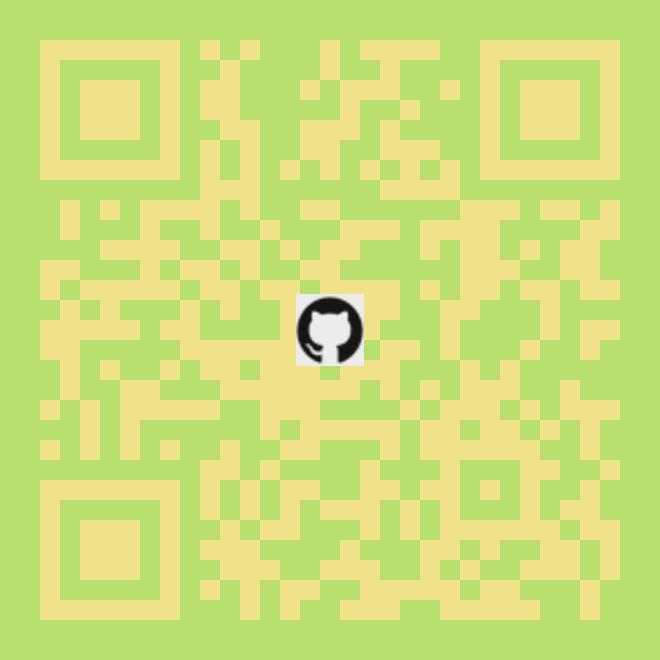
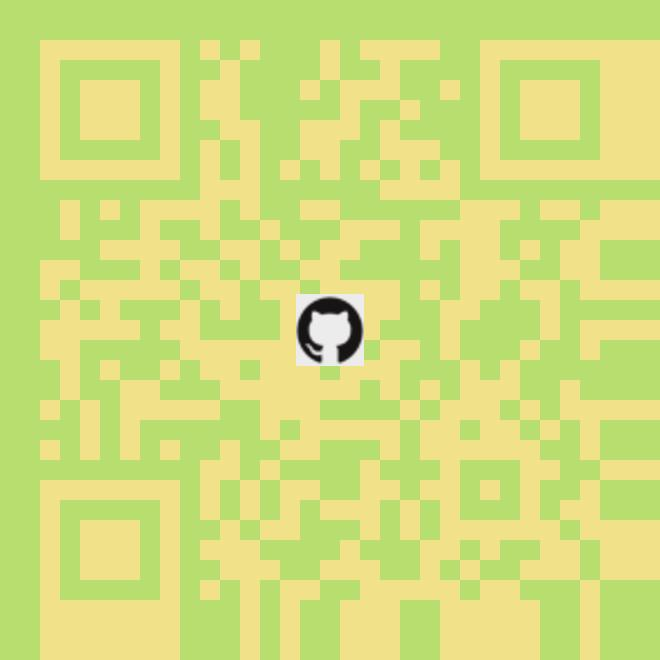
feat: use gg rather than repeated; support circle shape

diff --git a/image.go b/image.go
@@ -9,6 +9,8 @@ import (
 	"log"
 	"os"
 
+	"github.com/fogleman/gg"
+
 	"github.com/yeqown/go-qrcode/matrix"
 )
 
@@ -45,40 +47,106 @@ func drawAndSave(w io.Writer, m matrix.Matrix, opt *outputImageOptions) (err err
 	return
 }
 
+//
+//// draw deal QRCode's matrix to be a image.Image
+//func draw(mat matrix.Matrix, opt *outputImageOptions) image.Image {
+//	// w as image width, h as image height
+//	w := mat.Width()*opt.qrBlockWidth() + 2*_defaultPadding
+//	h := w
+//	rgba := image.NewRGBA(image.Rect(0, 0, w, h))
+//
+//	// top-bottom _defaultPadding
+//	for posX := 0; posX < w; posX++ {
+//		for posY := 0; posY < _defaultPadding; posY++ {
+//			rgba.Set(posX, posY, opt.backgroundColor())
+//		}
+//
+//		for posY := h - _defaultPadding; posY < h; posY++ {
+//			rgba.Set(posX, posY, opt.backgroundColor())
+//		}
+//	}
+//
+//	// left-right _defaultPadding
+//	for posY := _defaultPadding; posY < h-_defaultPadding; posY++ {
+//		for posX := 0; posX < _defaultPadding; posX++ {
+//			rgba.Set(posX, posY, opt.backgroundColor())
+//		}
+//
+//		for posX := w - _defaultPadding; posX < w; posX++ {
+//			rgba.Set(posX, posY, opt.backgroundColor())
+//		}
+//	}
+//
+//	ctx := &DrawContext{
+//		upperLeft:  image.Point{}, // useless
+//		lowerRight: image.Point{}, // useless
+//		img:        rgba,
+//		color:      color.Black, // useless
+//	}
+//	shape := opt.getShape()
+//
+//	// iterate the matrix to Draw each pixel
+//	mat.Iterate(matrix.ROW, func(x int, y int, v matrix.State) {
+//		// Draw the block
+//		ctx.upperLeft = image.Point{
+//			X: x*opt.qrBlockWidth() + _defaultPadding,
+//			Y: y*opt.qrBlockWidth() + _defaultPadding,
+//		}
+//		ctx.lowerRight = image.Point{
+//			X: (x+1)*opt.qrBlockWidth() + _defaultPadding,
+//			Y: (y+1)*opt.qrBlockWidth() + _defaultPadding,
+//		}
+//		ctx.color = opt.stateRGBA(v)
+//		// DONE(@yeqown): make this abstract to Shapes
+//		shape.Draw(ctx)
+//	})
+//
+//	// DONE(@yeqown): add logo image
+//	if opt.logoImage() != nil {
+//		// Draw logo image into rgba
+//		bound := opt.logo.Bounds()
+//		upperLeft, lowerRight := bound.Min, bound.Max
+//		logoWidth, logoHeight := lowerRight.X-upperLeft.X, lowerRight.Y-upperLeft.Y
+//
+//		if !validLogoImage(w, h, logoWidth, logoHeight) {
+//			log.Printf("w=%d, h=%d, logoW=%d, logoH=%d, logo is over than 1/5 of QRCode \n",
+//				w, h, logoWidth, logoHeight)
+//			goto done
+//		}
+//
+//		// DONE(@yeqown): calculate the xOffset and yOffset
+//		// which point(xOffset, yOffset) should icon upper-left to start
+//		xOffset, yOffset := (w-logoWidth)/2, (h-logoHeight)/2
+//
+//		for posX := upperLeft.X; posX < lowerRight.X; posX++ {
+//			for posY := upperLeft.Y; posY < lowerRight.Y; posY++ {
+//				rgba.Set(posX+xOffset, posY+yOffset, opt.logo.At(posX, posY))
+//			}
+//		}
+//	}
+//done:
+//	return rgba
+//}
+
 // draw deal QRCode's matrix to be a image.Image
 func draw(mat matrix.Matrix, opt *outputImageOptions) image.Image {
 	// w as image width, h as image height
 	w := mat.Width()*opt.qrBlockWidth() + 2*_defaultPadding
 	h := w
-	rgba := image.NewRGBA(image.Rect(0, 0, w, h))
+	// rgba := image.NewRGBA(image.Rect(0, 0, w, h))
+	dc := gg.NewContext(w, h)
 
-	// top-bottom _defaultPadding
-	for posX := 0; posX < w; posX++ {
-		for posY := 0; posY < _defaultPadding; posY++ {
-			rgba.Set(posX, posY, opt.backgroundColor())
-		}
+	// draw background
+	dc.SetColor(opt.backgroundColor())
+	dc.DrawRectangle(0, 0, float64(w), float64(h))
+	dc.Fill()
 
-		for posY := h - _defaultPadding; posY < h; posY++ {
-			rgba.Set(posX, posY, opt.backgroundColor())
-		}
-	}
-
-	// left-right _defaultPadding
-	for posY := _defaultPadding; posY < h-_defaultPadding; posY++ {
-		for posX := 0; posX < _defaultPadding; posX++ {
-			rgba.Set(posX, posY, opt.backgroundColor())
-		}
-
-		for posX := w - _defaultPadding; posX < w; posX++ {
-			rgba.Set(posX, posY, opt.backgroundColor())
-		}
-	}
-
+	// qrcode block draw context
 	ctx := &DrawContext{
+		Context:    dc,
 		upperLeft:  image.Point{}, // useless
 		lowerRight: image.Point{}, // useless
-		img:        rgba,
-		color:      color.Black, // useless
+		color:      color.Black,   // useless
 	}
 	shape := opt.getShape()
 
@@ -98,6 +166,10 @@ func draw(mat matrix.Matrix, opt *outputImageOptions) image.Image {
 		shape.Draw(ctx)
 	})
 
+	if _debug {
+		fmt.Printf("save as tmp.png, err=%v\n", dc.SavePNG("./tmp.png"))
+	}
+
 	// DONE(@yeqown): add logo image
 	if opt.logoImage() != nil {
 		// Draw logo image into rgba
@@ -113,16 +185,10 @@ func draw(mat matrix.Matrix, opt *outputImageOptions) image.Image {
 
 		// DONE(@yeqown): calculate the xOffset and yOffset
 		// which point(xOffset, yOffset) should icon upper-left to start
-		xOffset, yOffset := (w-logoWidth)/2, (h-logoHeight)/2
-
-		for posX := upperLeft.X; posX < lowerRight.X; posX++ {
-			for posY := upperLeft.Y; posY < lowerRight.Y; posY++ {
-				rgba.Set(posX+xOffset, posY+yOffset, opt.logo.At(posX, posY))
-			}
-		}
+		dc.DrawImage(opt.logoImage(), (w-logoWidth)/2, (h-logoHeight)/2)
 	}
 done:
-	return rgba
+	return dc.Image()
 }
 
 func validLogoImage(qrWidth, qrHeight, logoWidth, logoHeight int) bool {

diff --git a/image_qr_shape.go b/image_qr_shape.go
@@ -3,7 +3,8 @@ package qrcode
 import (
 	"image"
 	"image/color"
-	"math"
+
+	"github.com/fogleman/gg"
 )
 
 var (
@@ -18,61 +19,41 @@ type IShape interface {
 
 // DrawContext is a rectangle area
 type DrawContext struct {
+	*gg.Context
+
 	upperLeft  image.Point // (x1, y1)
 	lowerRight image.Point // (x2, y2)
 
-	img   *image.RGBA
 	color color.Color
-}
-
-func (ctx *DrawContext) Set(x, y int) {
-	if ctx == nil || ctx.img == nil {
-		return
-	}
-
-	ctx.img.Set(x, y, ctx.color)
 }
 
 // rectangle IShape
 type rectangle struct{}
 
-func (r rectangle) Draw(ctx *DrawContext) {
-	for posX := ctx.upperLeft.X; posX < ctx.lowerRight.X; posX++ {
-		for posY := ctx.upperLeft.Y; posY < ctx.lowerRight.Y; posY++ {
-			ctx.Set(posX, posY)
-		}
-	}
+func (r rectangle) Draw(c *DrawContext) {
+	c.DrawRectangle(float64(c.upperLeft.X), float64(c.upperLeft.Y),
+		float64(c.lowerRight.X), float64(c.lowerRight.Y))
+	c.SetColor(c.color)
+	c.Fill()
 }
 
 // circle IShape
 type circle struct{}
 
-// FIXME: Draw could not draw circle
-func (r circle) Draw(ctx *DrawContext) {
+// FIXED: Draw could not draw circle
+func (r circle) Draw(c *DrawContext) {
+	w := c.lowerRight.X - c.upperLeft.X
+	h := c.lowerRight.Y - c.upperLeft.Y
 
-	w := ctx.lowerRight.X - ctx.upperLeft.X
-	h := ctx.lowerRight.Y - ctx.upperLeft.Y
-
-	// choose property radius value
+	// choose property radius values
 	radius := w / 2
 	r2 := h / 2
 	if r2 <= radius {
 		radius = r2
 	}
 
-	cx, cy := ctx.lowerRight.X+w/2, ctx.lowerRight.Y+h/2 // get center point
-
-	// Draw x,y
-	for ; radius > 0; radius-- {
-		r_2 := radius * radius
-		for x := 0; x < radius; x++ {
-			x_2 := x * x
-
-			y := int(math.Sqrt(float64(r_2 - x_2)))
-			ctx.Set(cx+x, cx-y)
-			ctx.Set(cx+x, cy+y)
-			ctx.Set(cx-x, cx-y)
-			ctx.Set(cx-x, cy+y)
-		}
-	}
+	cx, cy := c.upperLeft.X+w/2, c.upperLeft.Y+h/2 // get center point
+	c.DrawCircle(float64(cx), float64(cy), float64(radius))
+	c.SetColor(c.color)
+	c.Fill()
 }

diff --git a/image_qr_shape_test.go b/image_qr_shape_test.go
@@ -3,39 +3,46 @@ package qrcode
 import (
 	"image"
 	"image/color"
-	"image/jpeg"
-	"os"
 	"testing"
+
+	"github.com/fogleman/gg"
 )
 
 func Test_circle_Draw(t *testing.T) {
 	rect := image.Rect(0, 0, 100, 100)
 	rgba := image.NewRGBA(rect)
-	// white background
-	for posX := rect.Min.X; posX < rect.Max.X; posX++ {
-		for posY := rect.Min.Y; posY < rect.Max.Y; posY++ {
-			rgba.Set(posX, posY, color.White)
-		}
-	}
+	dc := gg.NewContextForRGBA(rgba)
+
+	dc.DrawRectangle(0, 0, 100, 100)
+	dc.SetColor(color.White)
+	dc.Fill()
 
 	ctx := &DrawContext{
-		upperLeft:  rect.Min,
-		lowerRight: rect.Max,
-		img:        rgba,
-		color:      color.White,
+		Context:    dc,
+		upperLeft:  image.Point{X: 0, Y: 0},
+		lowerRight: image.Point{X: 50, Y: 50},
+		color:      color.Black,
 	}
 	_shapeCircle.Draw(ctx)
 
-	// save to file
-	fd, err := os.Create("./testdata/circle.jpeg")
+	err := dc.SavePNG("./testdata/circle.png")
 	if err != nil {
 		t.Error(err)
 		t.FailNow()
 	}
+}
 
-	err = jpeg.Encode(fd, rgba, nil)
-	if err != nil {
-		t.Error(err)
-		t.FailNow()
-	}
+func Test_gg(t *testing.T) {
+	rect := image.Rect(0, 0, 100, 100)
+	rgba := image.NewRGBA(rect)
+	dc := gg.NewContextForRGBA(rgba)
+
+	dc.DrawRectangle(0, 0, 100, 100)
+	dc.SetColor(color.White)
+	dc.Fill()
+
+	dc.DrawCircle(50, 50, 40)
+	dc.SetColor(color.Black)
+	dc.Fill()
+	_ = dc.SavePNG("out.png")
 }

diff --git a/README.md b/README.md
@@ -75,6 +75,7 @@ following are some shots:
 
 <img src="./testdata/qrtest_fg_bg.jpeg" width="100px">
 <img src="./testdata/qrtest_icon.jpeg" width="100px">
+<img src="./testdata/qrtest_circle.jpeg" width="100px">
 
 ### Documention
 
